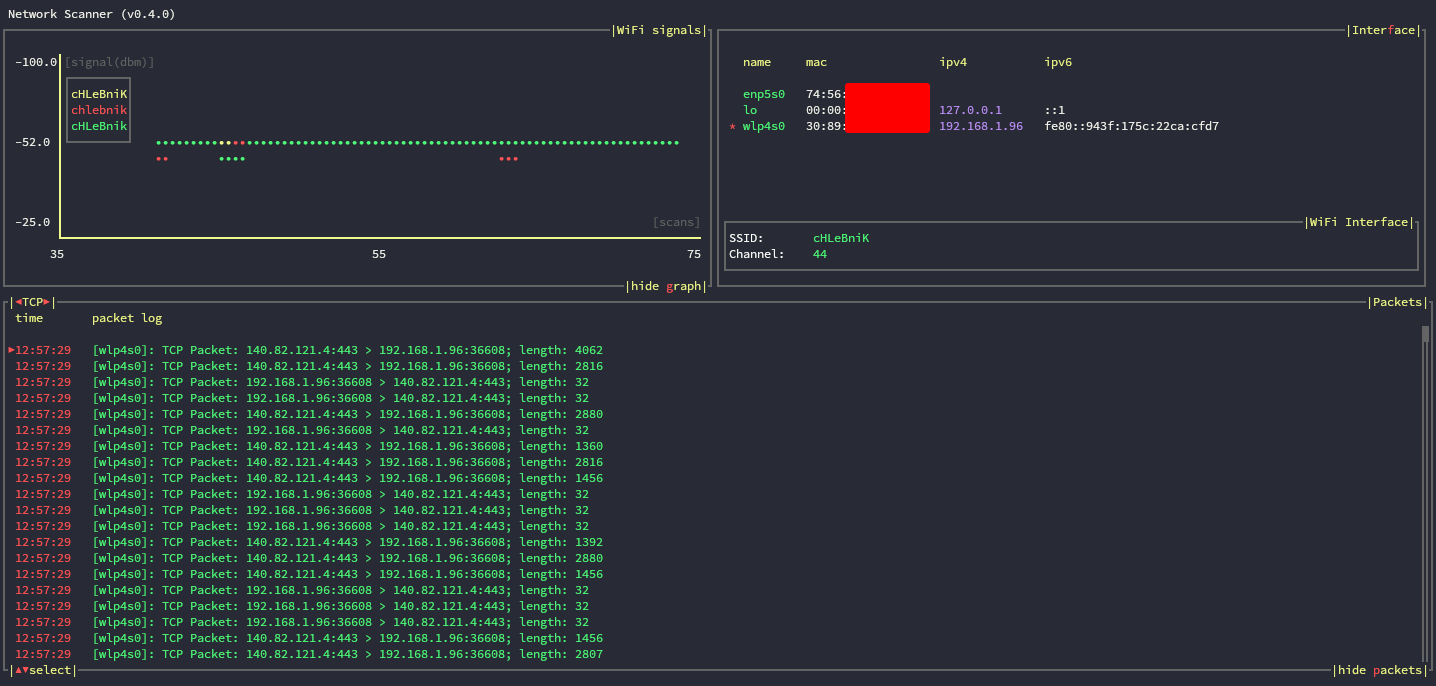
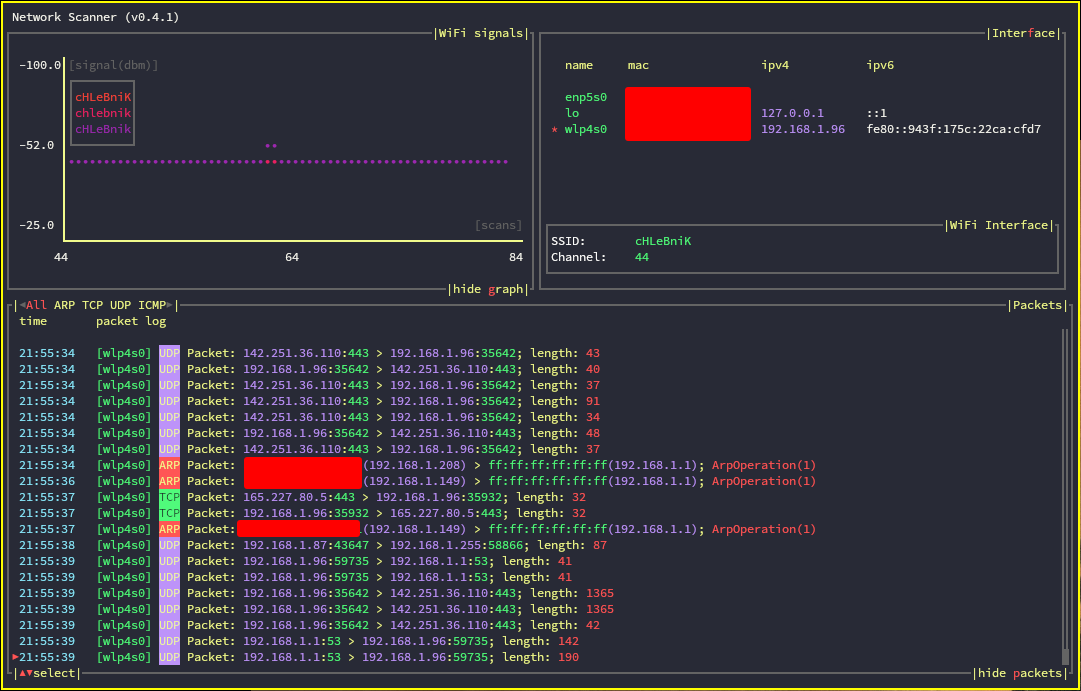
v0.4.1
- update screenshots
- up version
- update README

diff --git a/README.md b/README.md
@@ -9,8 +9,6 @@ Network scanning tool with features like:
 - Ping CIDR with hostname, oui & mac address
 - packetdump (TCP, UDP, ICMP, ARP)
 
-must be run with sudo priviliges
-
 ## Install `Arch AUR`
 ```
 paru -S netscanner
@@ -28,3 +26,8 @@ sudo chmod u+s /home/user/.cargo/bin/netscanner
 
 ![netscanner screenshot](./netscanner.png?raw=true)
 ![netscanner screenshot](./netscanner1.png?raw=true)
+
+## TODO
+- [] scanning open ports
+- [] modal window with packet data
+- [] ipv6 scanning & dumping
